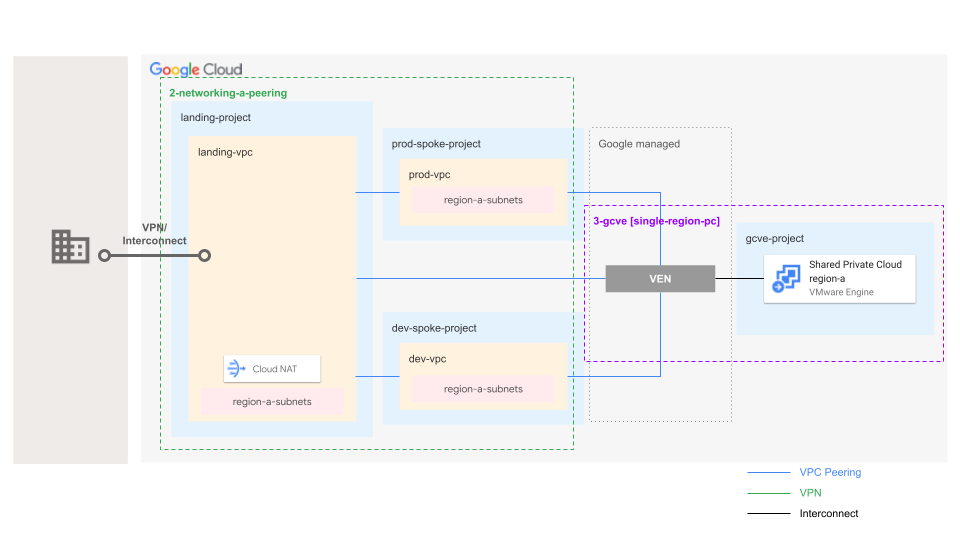
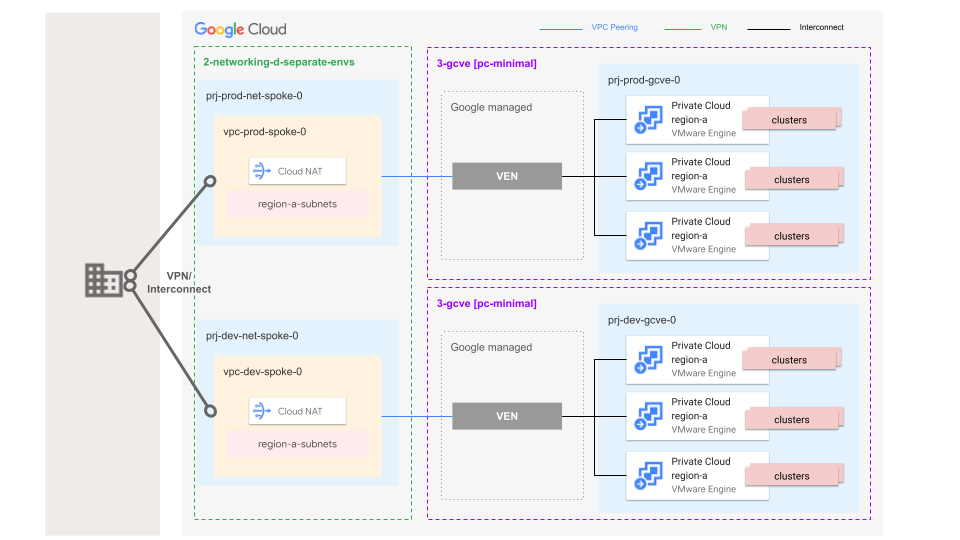
clean-up

diff --git a/blueprints/gcve/pc-minimal/README.md b/blueprints/gcve/pc-minimal/README.md
@@ -1,8 +1,9 @@
 # GCVE Private Cloud Minimal
 
-This blueprint presents an opinionated architecture to handle a simple single region VMware Engine private cloud. The general idea behind this blueprint is to deploy a single project hosting a GCVE private cloud connected to existing VPCs the user needs to create before using this blueprint.
+This blueprint presents an opinionated architecture to handle different Google VMware Engine deployment scenarios: from a simple single region private cloud to multi-region private clouds spread across different locations. The general idea behind this blueprint is to deploy a single project hosting one or more GCVE private clouds connected to a shared VMware Engine Network (VEN).
+Optionally this blueprint can deploy the VMWare Engine Network peerings to existing VPCs the user needs to create upfront.
 
-Multiple deployments of this blueprints allow the user to create multiple private clouds that are typically required to provide the physical separation (e.g. app enviroments).
+Multiple deployments of this blueprint allow the user to achieve more complex design solutions as for example GCVE private clouds deployed on different projects or connected to indipendent VMWare Engine Networks.
 
 This blueprint is used as part of the [FAST GCVE stage](../../../fast/stages/3-gcve/) but it can also be used independently if desired.
 
@@ -10,21 +11,15 @@ This blueprint is used as part of the [FAST GCVE stage](../../../fast/stages/3-g
   <img src="diagram.png" alt="GCVE single region private cloud">
 </p>
 
-The overall architecture is based on the following design decisions:
-- Each GCVE Private Cloud resides in a dedicated GCP project.
-- Each GCVE Private Cloud is connected to a dedicated VMware Engine Network (VEN).
-- Two Private Clouds can connect by establishing a peering between their respective VEN (Shared VENs are not supported).
-- The internet inbound/oubound connectivity is managed in the customer VPC.   
-
 The blueprint manages:
 - project creation
-- API/Services enablement
-- IAM role assignment for groups
-- VMware Engine Private Cloud creation
-- [VMware Engine Network](https://cloud.google.com/vmware-engine/docs/networking/vmware-engine-network#standard_networks) creation
-- VPC attachment (Optional)
 - project-level organization policy definitions
 - billing setup (billing account attachment)
+- API/Services enablement
+- IAM role assignment for groups
+- VMware Engine private clouds creation
+- [VMware Engine Network](https://cloud.google.com/vmware-engine/docs/networking/vmware-engine-network#standard_networks) creation
+- VPC attachment (Optional)
 
 ### User groups
 
@@ -114,12 +109,12 @@ module "gcve-pc" {
 | [billing_account_id](variables.tf#L17) | Billing account ID. | <code>string</code> | ✓ |  |
 | [folder_id](variables.tf#L22) | Folder used for the GCVE project in folders/nnnnnnnnnnn format. | <code>string</code> | ✓ |  |
 | [groups](variables.tf#L27) | GCVE groups. | <code title="object&#40;&#123;&#10;  gcp-gcve-admins  &#61; string&#10;  gcp-gcve-viewers &#61; string&#10;&#125;&#41;">object&#40;&#123;&#8230;&#125;&#41;</code> | ✓ |  |
-| [prefix](variables.tf#L80) | Prefix used for resource names. | <code>string</code> | ✓ |  |
-| [private_cloud_configs](variables.tf#L89) | The VMware private cloud configurations. The key is the unique private cloud name suffix. | <code title="map&#40;object&#40;&#123;&#10;  cidr &#61; string&#10;  zone &#61; string&#10;  additional_cluster_configs &#61; optional&#40;map&#40;object&#40;&#123;&#10;    custom_core_count &#61; optional&#40;number&#41;&#10;    node_count        &#61; optional&#40;number, 3&#41;&#10;    node_type_id      &#61; optional&#40;string, &#34;standard-72&#34;&#41;&#10;  &#125;&#41;&#41;, &#123;&#125;&#41;&#10;  management_cluster_config &#61; optional&#40;object&#40;&#123;&#10;    custom_core_count &#61; optional&#40;number&#41;&#10;    name              &#61; optional&#40;string, &#34;mgmt-cluster&#34;&#41;&#10;    node_count        &#61; optional&#40;number, 3&#41;&#10;    node_type_id      &#61; optional&#40;string, &#34;standard-72&#34;&#41;&#10;  &#125;&#41;, &#123;&#125;&#41;&#10;  description &#61; optional&#40;string, &#34;Managed by Terraform.&#34;&#41;&#10;&#125;&#41;&#41;">map&#40;object&#40;&#123;&#8230;&#125;&#41;&#41;</code> | ✓ |  |
-| [project_id](variables.tf#L111) | ID of the project that will contain the GCVE private cloud. | <code>string</code> | ✓ |  |
+| [prefix](variables.tf#L81) | Prefix used for resource names. | <code>string</code> | ✓ |  |
+| [private_cloud_configs](variables.tf#L90) | The VMware private cloud configurations. The key is the unique private cloud name suffix. | <code title="map&#40;object&#40;&#123;&#10;  cidr &#61; string&#10;  zone &#61; string&#10;  additional_cluster_configs &#61; optional&#40;map&#40;object&#40;&#123;&#10;    custom_core_count &#61; optional&#40;number&#41;&#10;    node_count        &#61; optional&#40;number, 3&#41;&#10;    node_type_id      &#61; optional&#40;string, &#34;standard-72&#34;&#41;&#10;  &#125;&#41;&#41;, &#123;&#125;&#41;&#10;  management_cluster_config &#61; optional&#40;object&#40;&#123;&#10;    custom_core_count &#61; optional&#40;number&#41;&#10;    name              &#61; optional&#40;string, &#34;mgmt-cluster&#34;&#41;&#10;    node_count        &#61; optional&#40;number, 3&#41;&#10;    node_type_id      &#61; optional&#40;string, &#34;standard-72&#34;&#41;&#10;  &#125;&#41;, &#123;&#125;&#41;&#10;  description &#61; optional&#40;string, &#34;Managed by Terraform.&#34;&#41;&#10;&#125;&#41;&#41;">map&#40;object&#40;&#123;&#8230;&#125;&#41;&#41;</code> | ✓ |  |
+| [project_id](variables.tf#L112) | ID of the project that will contain the GCVE private cloud. | <code>string</code> | ✓ |  |
 | [iam](variables.tf#L36) | Project-level authoritative IAM bindings for users and service accounts in  {ROLE => [MEMBERS]} format. | <code>map&#40;list&#40;string&#41;&#41;</code> |  | <code>&#123;&#125;</code> |
 | [iam_by_principals](variables.tf#L43) | Authoritative IAM binding in {PRINCIPAL => [ROLES]} format. Principals need to be statically defined to avoid cycle errors. Merged internally with the `iam` variable. | <code>map&#40;list&#40;string&#41;&#41;</code> |  | <code>&#123;&#125;</code> |
 | [labels](variables.tf#L50) | Project-level labels. | <code>map&#40;string&#41;</code> |  | <code>&#123;&#125;</code> |
-| [network_peerings](variables.tf#L56) | The network peerings between users' VPCs and the VMware Engine networks. The key is the peering name suffix. | <code title="map&#40;object&#40;&#123;&#10;  configure_peer_network &#61; optional&#40;bool, false&#41;&#10;  custom_routes &#61; object&#40;&#123;&#10;    export_to_peer   &#61; optional&#40;bool, false&#41;&#10;    import_from_peer &#61; optional&#40;bool, false&#41;&#10;    export_to_ven    &#61; optional&#40;bool, false&#41;&#10;    import_from_ven  &#61; optional&#40;bool, false&#41;&#10;  &#125;&#41;&#10;  custom_routes_with_public_ip &#61; object&#40;&#123;&#10;    export_to_peer   &#61; optional&#40;bool, false&#41;&#10;    import_from_peer &#61; optional&#40;bool, false&#41;&#10;    export_to_ven    &#61; optional&#40;bool, false&#41;&#10;    import_from_ven  &#61; optional&#40;bool, false&#41;&#10;  &#125;&#41;&#10;  description                   &#61; optional&#40;string, &#34;Managed by Terraform.&#34;&#41;&#10;  peer_network                  &#61; string&#10;  peer_project_id               &#61; optional&#40;string&#41;&#10;  peer_to_vmware_engine_network &#61; optional&#40;bool, false&#41;&#10;&#125;&#41;&#41;">map&#40;object&#40;&#123;&#8230;&#125;&#41;&#41;</code> |  | <code>&#123;&#125;</code> |
-| [project_services](variables.tf#L116) | Additional project services to enable. | <code>list&#40;string&#41;</code> |  | <code>&#91;&#93;</code> |
+| [network_peerings](variables.tf#L56) | The network peerings between users' VPCs and the VMware Engine networks. The key is the peering name suffix. | <code title="map&#40;object&#40;&#123;&#10;  configure_peer_network &#61; optional&#40;bool, false&#41;&#10;  custom_routes &#61; optional&#40;object&#40;&#123;&#10;    export_to_peer   &#61; optional&#40;bool, false&#41;&#10;    import_from_peer &#61; optional&#40;bool, false&#41;&#10;    export_to_ven    &#61; optional&#40;bool, false&#41;&#10;    import_from_ven  &#61; optional&#40;bool, false&#41;&#10;  &#125;&#41;, &#123;&#125;&#41;&#10;  custom_routes_with_public_ip &#61; optional&#40;object&#40;&#123;&#10;    export_to_peer   &#61; optional&#40;bool, false&#41;&#10;    import_from_peer &#61; optional&#40;bool, false&#41;&#10;    export_to_ven    &#61; optional&#40;bool, false&#41;&#10;    import_from_ven  &#61; optional&#40;bool, false&#41;&#10;  &#125;&#41;, &#123;&#125;&#41;&#10;  description                   &#61; optional&#40;string, &#34;Managed by Terraform.&#34;&#41;&#10;  peer_network                  &#61; string&#10;  peer_project_id               &#61; optional&#40;string&#41;&#10;  peer_to_vmware_engine_network &#61; optional&#40;bool, false&#41;&#10;&#125;&#41;&#41;">map&#40;object&#40;&#123;&#8230;&#125;&#41;&#41;</code> |  | <code>&#123;&#125;</code> |
+| [project_services](variables.tf#L117) | Additional project services to enable. | <code>list&#40;string&#41;</code> |  | <code>&#91;&#93;</code> |
 <!-- END TFDOC -->

diff --git a/fast/stages/3-gcve/prod/README.md b/fast/stages/3-gcve/prod/README.md
@@ -1,6 +1,6 @@
 # GCVE Private Cloud for Dev Application Environment
 
-This stage provides the Terraform content for the creation and management of a single-region GCVE private cloud which is connected to an existing network. The network infrastructure needs to be deployed before executing this stage by executing the respective Fabric FAST stage (`2-networking-*`). This stage is designed to be replicated once for every GCVE environment, for instance separately for dev and prod, per region or separately for other constraints which make you decide to have separate GCVE environments (e.g. by team or by sets of teams sharing similar requirements). 
+This stage provides the Terraform content for the creation and management of multiple GCVE private clouds which are connected to an existing network. The network infrastructure needs to be deployed before executing this stage by executing the respective Fabric FAST stage (`2-networking-*`). This stage can be replicated for complex GCVE designs requiring a separate management of the network infrastructure (VEN) and the users access or for other constraints which make you decide to have indipendent GCVE environments (e.g dev/prod, region or team  serparation). 
 
 ## Design overview and choices
 
@@ -100,7 +100,7 @@ The VPC host project, VPC and subnets should already exist.
 
 | name | description | modules | resources |
 |---|---|---|---|
-| [3-gcve-dev-providers.tf](./3-gcve-dev-providers.tf) | None |  |  |
+| [3-gcve-prod-providers.tf](./3-gcve-prod-providers.tf) | None |  |  |
 | [main.tf](./main.tf) | GCVE private cloud for development environment. | <code>pc-minimal</code> |  |
 | [outputs.tf](./outputs.tf) | Output variables. |  | <code>google_storage_bucket_object</code> · <code>local_file</code> |
 | [variables.tf](./variables.tf) | Module variables. |  |  |
@@ -111,17 +111,17 @@ The VPC host project, VPC and subnets should already exist.
 |---|---|:---:|:---:|:---:|:---:|
 | [automation](variables.tf#L17) | Automation resources created by the bootstrap stage. | <code title="object&#40;&#123;&#10;  outputs_bucket &#61; string&#10;&#125;&#41;">object&#40;&#123;&#8230;&#125;&#41;</code> | ✓ |  | <code>0-bootstrap</code> |
 | [billing_account](variables.tf#L25) | Billing account id. If billing account is not part of the same org set `is_org_level` to false. | <code title="object&#40;&#123;&#10;  id           &#61; string&#10;  is_org_level &#61; optional&#40;bool, true&#41;&#10;&#125;&#41;">object&#40;&#123;&#8230;&#125;&#41;</code> | ✓ |  | <code>0-bootstrap</code> |
-| [folder_ids](variables.tf#L38) | Folders to be used for the networking resources in folders/nnnnnnnnnnn format. If null, folder will be created. | <code title="object&#40;&#123;&#10;  gcve-dev &#61; string&#10;&#125;&#41;">object&#40;&#123;&#8230;&#125;&#41;</code> | ✓ |  | <code>1-resman</code> |
-| [host_project_ids](variables.tf#L59) | Host project for the shared VPC. | <code title="object&#40;&#123;&#10;  dev-spoke-0  &#61; string&#10;  prod-landing &#61; string&#10;&#125;&#41;">object&#40;&#123;&#8230;&#125;&#41;</code> | ✓ |  | <code>2-networking</code> |
-| [organization](variables.tf#L81) | Organization details. | <code title="object&#40;&#123;&#10;  domain      &#61; string&#10;  id          &#61; number&#10;  customer_id &#61; string&#10;&#125;&#41;">object&#40;&#123;&#8230;&#125;&#41;</code> | ✓ |  | <code>00-globals</code> |
-| [prefix](variables.tf#L97) | Prefix used for resources that need unique names. Use 9 characters or less. | <code>string</code> | ✓ |  | <code>0-bootstrap</code> |
-| [private_cloud_configs](variables.tf#L108) | The VMware private cloud configurations. The key is the unique private cloud name suffix. | <code title="map&#40;object&#40;&#123;&#10;  cidr &#61; string&#10;  zone &#61; string&#10;  additional_cluster_configs &#61; optional&#40;map&#40;object&#40;&#123;&#10;    custom_core_count &#61; optional&#40;number&#41;&#10;    node_count        &#61; optional&#40;number, 3&#41;&#10;    node_type_id      &#61; optional&#40;string, &#34;standard-72&#34;&#41;&#10;  &#125;&#41;&#41;, &#123;&#125;&#41;&#10;  management_cluster_config &#61; optional&#40;object&#40;&#123;&#10;    custom_core_count &#61; optional&#40;number&#41;&#10;    name              &#61; optional&#40;string, &#34;mgmt-cluster&#34;&#41;&#10;    node_count        &#61; optional&#40;number, 3&#41;&#10;    node_type_id      &#61; optional&#40;string, &#34;standard-72&#34;&#41;&#10;  &#125;&#41;, &#123;&#125;&#41;&#10;  description &#61; optional&#40;string, &#34;Managed by Terraform.&#34;&#41;&#10;&#125;&#41;&#41;">map&#40;object&#40;&#123;&#8230;&#125;&#41;&#41;</code> | ✓ |  |  |
-| [vpc_self_links](variables.tf#L137) | Self link for the shared VPC. | <code title="object&#40;&#123;&#10;  dev-spoke-0  &#61; string&#10;  prod-landing &#61; string&#10;&#125;&#41;">object&#40;&#123;&#8230;&#125;&#41;</code> | ✓ |  | <code>2-networking</code> |
+| [folder_ids](variables.tf#L38) | Folders to be used for the networking resources in folders/nnnnnnnnnnn format. If null, folder will be created. | <code title="object&#40;&#123;&#10;  gcve-prod &#61; string&#10;&#125;&#41;">object&#40;&#123;&#8230;&#125;&#41;</code> | ✓ |  | <code>1-resman</code> |
+| [host_project_ids](variables.tf#L59) | Host project for the shared VPC. | <code title="object&#40;&#123;&#10;  prod-spoke-0 &#61; string&#10;&#125;&#41;">object&#40;&#123;&#8230;&#125;&#41;</code> | ✓ |  | <code>2-networking</code> |
+| [organization](variables.tf#L80) | Organization details. | <code title="object&#40;&#123;&#10;  domain      &#61; string&#10;  id          &#61; number&#10;  customer_id &#61; string&#10;&#125;&#41;">object&#40;&#123;&#8230;&#125;&#41;</code> | ✓ |  | <code>00-globals</code> |
+| [prefix](variables.tf#L96) | Prefix used for resources that need unique names. Use 9 characters or less. | <code>string</code> | ✓ |  | <code>0-bootstrap</code> |
+| [private_cloud_configs](variables.tf#L107) | The VMware private cloud configurations. The key is the unique private cloud name suffix. | <code title="map&#40;object&#40;&#123;&#10;  cidr &#61; string&#10;  zone &#61; string&#10;  additional_cluster_configs &#61; optional&#40;map&#40;object&#40;&#123;&#10;    custom_core_count &#61; optional&#40;number&#41;&#10;    node_count        &#61; optional&#40;number, 3&#41;&#10;    node_type_id      &#61; optional&#40;string, &#34;standard-72&#34;&#41;&#10;  &#125;&#41;&#41;, &#123;&#125;&#41;&#10;  management_cluster_config &#61; optional&#40;object&#40;&#123;&#10;    custom_core_count &#61; optional&#40;number&#41;&#10;    name              &#61; optional&#40;string, &#34;mgmt-cluster&#34;&#41;&#10;    node_count        &#61; optional&#40;number, 3&#41;&#10;    node_type_id      &#61; optional&#40;string, &#34;standard-72&#34;&#41;&#10;  &#125;&#41;, &#123;&#125;&#41;&#10;  description &#61; optional&#40;string, &#34;Managed by Terraform.&#34;&#41;&#10;&#125;&#41;&#41;">map&#40;object&#40;&#123;&#8230;&#125;&#41;&#41;</code> | ✓ |  |  |
+| [vpc_self_links](variables.tf#L136) | Self link for the shared VPC. | <code title="object&#40;&#123;&#10;  prod-spoke-0 &#61; string&#10;&#125;&#41;">object&#40;&#123;&#8230;&#125;&#41;</code> | ✓ |  | <code>2-networking</code> |
 | [groups_gcve](variables.tf#L46) | GCVE groups. | <code title="object&#40;&#123;&#10;  gcp-gcve-admins  &#61; string&#10;  gcp-gcve-viewers &#61; string&#10;&#125;&#41;">object&#40;&#123;&#8230;&#125;&#41;</code> |  | <code title="&#123;&#10;  gcp-gcve-admins  &#61; &#34;gcp-gcve-admins&#34;&#10;  gcp-gcve-viewers &#61; &#34;gcp-gcve-viewers&#34;&#10;&#125;">&#123;&#8230;&#125;</code> |  |
-| [iam](variables.tf#L68) | Project-level authoritative IAM bindings for users and service accounts in  {ROLE => [MEMBERS]} format. | <code>map&#40;list&#40;string&#41;&#41;</code> |  | <code>&#123;&#125;</code> |  |
-| [labels](variables.tf#L75) | Project-level labels. | <code>map&#40;string&#41;</code> |  | <code>&#123;&#125;</code> |  |
-| [outputs_location](variables.tf#L91) | Path where providers, tfvars files, and lists for the following stages are written. Leave empty to disable. | <code>string</code> |  | <code>null</code> |  |
-| [project_services](variables.tf#L130) | Additional project services to enable. | <code>list&#40;string&#41;</code> |  | <code>&#91;&#93;</code> |  |
+| [iam](variables.tf#L67) | Project-level authoritative IAM bindings for users and service accounts in  {ROLE => [MEMBERS]} format. | <code>map&#40;list&#40;string&#41;&#41;</code> |  | <code>&#123;&#125;</code> |  |
+| [labels](variables.tf#L74) | Project-level labels. | <code>map&#40;string&#41;</code> |  | <code>&#123;&#125;</code> |  |
+| [outputs_location](variables.tf#L90) | Path where providers, tfvars files, and lists for the following stages are written. Leave empty to disable. | <code>string</code> |  | <code>null</code> |  |
+| [project_services](variables.tf#L129) | Additional project services to enable. | <code>list&#40;string&#41;</code> |  | <code>&#91;&#93;</code> |  |
 
 ## Outputs
 

diff --git a/fast/stages/3-gcve/README.md b/fast/stages/3-gcve/README.md
@@ -1,9 +1,9 @@
-# GCVE Stage
+# Google Cloud VMware Engine Stage
 
-The GCVE stage builds on top of your foundations to create and set up projects and related resources, used for your GCVE private cloud environments.
+The GCVE stage builds on top of your foundations to create and set up projects and related resources, used for your Google Cloud VMware Engine (GCVE) private cloud environments.
 It is organized in folders representing environments (e.g. `dev`, `prod`), each implemented by a stand-alone Terraform setup.
 
-This directory contains a [GCVE single region private cloud for the `dev` environment](./dev/) that can be used as-is, and cloned with few changes to implement further environments. Refer to the example [`dev`/README.md](./dev/README.md) for configuration details.
+This directory contains a [GCVE single region private cloud for the `prod` environment](./prod/) that can be used as-is, and cloned with few changes to implement further environments. Refer to the example [`prod`/README.md](./prod/README.md) for configuration details.
 
 With this stage and the [GCVE blueprints](./../../../blueprints/gcve/), you can rapidly deploy production-ready GCVE environments. These environments are fully optimized to integrate seamlessly with your Fabric FAST network topology. Explore the deployment patterns below to find the perfect fit for your use case."
 
@@ -13,33 +13,22 @@ With this stage and the [GCVE blueprints](./../../../blueprints/gcve/), you can 
 - [TOC](#toc)
 - [Deployment Patterns](#deployment-patterns)
   - [Single Region](#single-region)
-    - [Hub and Spoke with VPC Peering and individual Private Clouds per environment](#hub-and-spoke-with-vpc-peering-and-individual-private-clouds-per-environment)
-    - [Hub and Spoke with VPC Peering and shared Private Cloud](#hub-and-spoke-with-vpc-peering-and-shared-private-cloud)
-    - [Hub and Spoke with VPN and individual Private Clouds per environment](#hub-and-spoke-with-vpn-and-individual-private-clouds-per-environment)
-    - [Hub and Spoke with VPN and shared Private Cloud](#hub-and-spoke-with-vpn-and-shared-private-cloud)
+    - [Standalone VPC for a sigle region GCVE deployment](#standalone-vpc-for-a-sigle-region-gcve-deployment)
+    - [Separate VPC Environments for individual dedicated GCVE deployments](#separate-vpc-environments-for-individual-dedicated-gcve-deployments)
 <!-- END TOC -->
 
 ## Deployment Patterns
 ### Single Region
-#### Hub and Spoke with VPC Peering and individual Private Clouds per environment
+#### Standalone VPC for a sigle region GCVE deployment
 <p align="center">
-  <img src="diagram0.png" alt="Hub and Spoke with VPC Peering and individual Private Clouds per environment">
+  <img src="diagram0.png" alt="Standalone Shared VPC for a sigle region GCVE deployment">
 </p>
 
-#### Hub and Spoke with VPC Peering and shared Private Cloud
+#### Separate VPC Environments for individual dedicated GCVE deployments 
 <p align="center">
-  <img src="diagram1.png" alt="Hub and Spoke with VPC Peering and shared Private Cloud">
+  <img src="diagram1.png" alt="Separate VPC Environments for individual dedicated GCVE deployments">
 </p>
 
-#### Hub and Spoke with VPN and individual Private Clouds per environment
-<p align="center">
-  <img src="diagram2.png" alt="Hub and Spoke with VPC Peering and shared Private Cloud">
-</p>
-
-#### Hub and Spoke with VPN and shared Private Cloud
-<p align="center">
-  <img src="diagram3.png" alt="Hub and Spoke with VPN and shared Private Cloud">
-</p>
 
 <!-- BEGIN TFDOC -->
 <!-- END TFDOC -->
